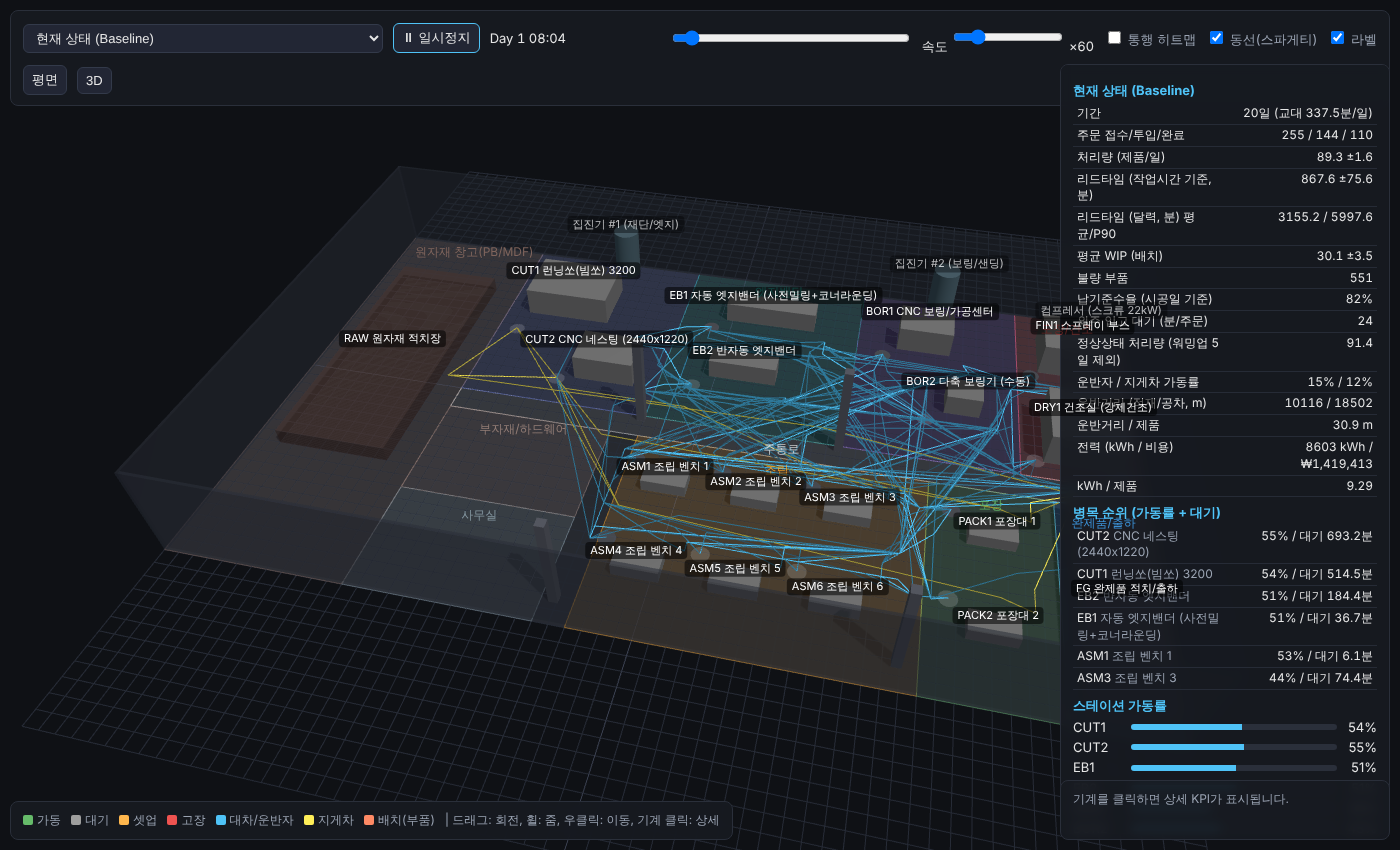
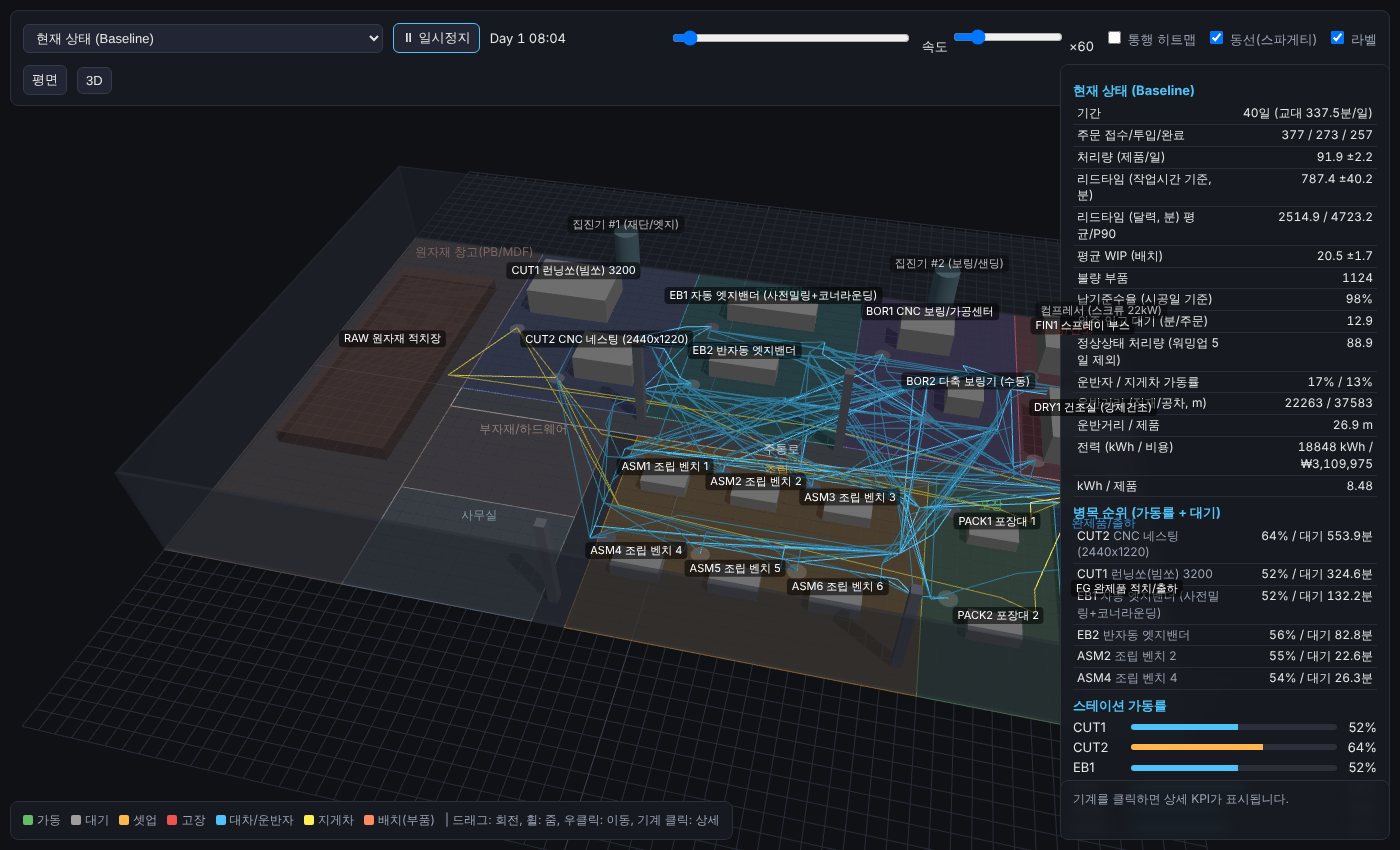
40일·13주문/일 민감도 반영(§10.2 두 체제 행, 08 지도 순위 열), 뷰어 스크린샷(40일) 갱신, 시나리오·민감도 출력 갱신
Claude-Session: https://claude.ai/code/session_01C9gxnGPi1S4WKTrmxT1DyB

diff --git a/factory-twin/docs/08_시트_파라미터_KPI_지도.md b/factory-twin/docs/08_시트_파라미터_KPI_지도.md
@@ -1,17 +1,17 @@
 # 08. 시트 → 파라미터 → KPI 지도 (빈칸이 결론을 어떻게 흔드는가)
 
-목적: 현장에서 어떤 시트를 비우고 오면 모델의 어느 파라미터가 **기본값(추정)** 으로 남고, 그것이 어느 결론(§1.2 KPI)을 흔드는지 한 표로 본다. 변환기 `tools/templates_to_json.py` 의 실제 동작과 샘플 민감도(`sim/out/sensitivity.md`, ±20%, 40일)·보정 라운드트립(03 §10.3)에 근거한다. 등급은 `tools/data_quality.py` 의 출처(measured/record/interview/estimated).
+목적: 현장에서 어떤 시트를 비우고 오면 모델의 어느 파라미터가 **기본값(추정)** 으로 남고, 그것이 어느 결론(§1.2 KPI)을 흔드는지 한 표로 본다. 변환기 `tools/templates_to_json.py` 의 실제 동작과 샘플 민감도(`sim/out/sensitivity.md`, ±20%, 40일, 13주문/일 중부하; 과부하 17주문/일 시험 실행은 03 §10.2)·보정 라운드트립(03 §10.3)에 근거한다. 등급은 `tools/data_quality.py` 의 출처(measured/record/interview/estimated).
 
 | 시트 | 만드는 파라미터(`factory.json`) | 비우면 변환기가 하는 일 | 흔들리는 결론 | 샘플 민감도 | 당일 최소 | 보정·검증 지표(이 파라미터가 직접 움직이는 KPI) |
 |---|---|---|---|---|---|---|
 | 0 공장기본 | `meta.shift`(시작·종료·휴게·주 근무일수), 잔업 메모 | 08:00~17:00, 주 5일 가정 | 처리량/일·납기준수율의 **분모**(근무 분) | — (구조) | 전부 | `shift_min_per_day`, 달력(주말 출하 유무) |
-| 1 구역 | `zones`(통로·적치·공정 구역) | 구역 없음 → A* 운반 경로가 직선 | 운반 거리·동선 시나리오(S3) | 운반 속도 4위(리드타임 11.5%p) | 평면도 + 레이저 제어치수 | `transport.distance_per_product_m` |
-| 2 기계대장 | `stations[]` 위치·크기·대수·v_f·G·통과 횟수·가용률(소정지·예열)·MTBF/MTTR·버퍼·이동 등급 | kW 5 가정, MTBF 0(고장 없음), 버퍼 무한, 가용률 1.0 | 병목 순위, 가동률, **비수기엔 MTTR 이 2순위** | MTTR(EB2) 6위, 버퍼(CUT2) 9위 | 명판·대수·버퍼 칸 수·"소정지 몇 번/시간" | `stations.<ID>.utilization`, 고장 이벤트 수 |
+| 1 구역 | `zones`(통로·적치·공정 구역) | 구역 없음 → A* 운반 경로가 직선 | 운반 거리·동선 시나리오(S3) | 중부하에선 하위, 과부하(17/일)에선 운반 속도 4위 | 평면도 + 레이저 제어치수 | `transport.distance_per_product_m` |
+| 2 기계대장 | `stations[]` 위치·크기·대수·v_f·G·통과 횟수·가용률(소정지·예열)·MTBF/MTTR·버퍼·이동 등급 | kW 5 가정, MTBF 0(고장 없음), 버퍼 무한, 가용률 1.0 | 병목 순위, 가동률, **비수기엔 MTTR 이 2순위** | **EB1 MTTR 4위**, CUT1·BOR2 MTTR 8·9위, CUT1 버퍼 10위 | 명판·대수·버퍼 칸 수·"소정지 몇 번/시간" | `stations.<ID>.utilization`, 고장 이벤트 수 |
 | 3 부대설비 | `ancillary[]`(집진·컴프레서 kW·운전 모드·부하율) | 없음 → 전력 kWh 20~40% 과소 | 전력·요금·VFD 시나리오 | — | 명판 + "아침 ON~퇴근 OFF" | `energy.total_kwh` (15분 적분) |
-| 4 사이클타임 | `stations[].cycle`(base·per_unit 회귀·cv·n) — 엣지는 Σ(L+G)/v_f+γ0+γ1·N, 보링은 홀 수 | **1분/부품 가정**(가장 흔한 오류 원인) | 병목 순위·가동률·리드타임 전부 | 런닝쏘 2위(17.3%p), 보링 3위, 조립 5위 | 병목 후보 ≥10회(평정·첫 사이클 표시) | `stations.<ID>.utilization` — 시공일 역산 체제에선 처리량이 아니라 **가동률**로 보정(§10.3) |
-| 5 셋업 | `stations[].setup_min`(쌍 평균), 빈도 | 시트 2 셋업 열 또는 0 | 성수기 체제 2순위, SMED(S4) | BOR2 13위, CUT2 16위 | 발생 시 1회 전체 관찰 | `setups_per_day` |
-| 6 작업자 | `transport.handlers`(운반 역할 수), `workers[]`(v1) | 운반 2명 가정 | 운반 대기, 배치 절반(S2)의 실현 가능성 | 운반 속도 4위·적재하역 12위 | 역할표 | `transport.handler_utilization` |
-| 7 제품·BOM | `products[]` 부품 수·치수·엣지 변·홀·색상·두께, `orders.batch_size`, `mix` | 제품 없음 → 시뮬 불가 | **배치 크기 규칙 1위**(리드타임 52.5%p) | 1위 | 4~8종 BOM + 재단표 1장 | `avg_wip_batches`, `lead_time_work_min_avg` |
+| 4 사이클타임 | `stations[].cycle`(base·per_unit 회귀·cv·n) — 엣지는 Σ(L+G)/v_f+γ0+γ1·N, 보링은 홀 수 | **1분/부품 가정**(가장 흔한 오류 원인) | 병목 순위·가동률·리드타임 전부 | 런닝쏘 2위(리드타임 17%p), 재단 CNC 3위, 조립 벤치 5위, 보링 7위 | 병목 후보 ≥10회(평정·첫 사이클 표시) | `stations.<ID>.utilization` — 시공일 역산 체제에선 처리량이 아니라 **가동률**로 보정(§10.3) |
+| 5 셋업 | `stations[].setup_min`(쌍 평균), 빈도 | 시트 2 셋업 열 또는 0 | 성수기 체제 2순위, SMED(S4) | ASM6 셋업 6위(중부하), BOR2·CUT2 셋업 13~16위(과부하) | 발생 시 1회 전체 관찰 | `setups_per_day` |
+| 6 작업자 | `transport.handlers`(운반 역할 수), `workers[]`(v1) | 운반 2명 가정 | 운반 대기, 배치 절반(S2)의 실현 가능성 | 중부하 하위, 과부하 운반 속도 4위·적재하역 12위 | 역할표 | `transport.handler_utilization` |
+| 7 제품·BOM | `products[]` 부품 수·치수·엣지 변·홀·색상·두께, `orders.batch_size`, `mix` | 제품 없음 → 시뮬 불가 | **배치 크기 규칙 1위**(처리량 34%p·리드타임 50%p) | 1위(두 체제 모두) | 4~8종 BOM + 재단표 1장 | `avg_wip_batches`, `lead_time_work_min_avg` |
 | 8 주문이력 | `orders.orders_per_day`, `install_lead_days`(min/mode/max), `history_list`(`--history` 로 재생) | 8건/일·D-2 가정 → 체제 자체가 틀림 | 납기준수율·WIP·"성수기/비수기" 구분 | 배치 크기와 결합 | 3개월 시공캘린더·세금계산서 | `on_time_ratio`, `order_lead_days_avg` |
 | 10 동선 | (직접 파라미터 없음) 카메라 trips·스파게티 검증 | — | 레이아웃 시나리오의 **검증** | — | 배치 1~2건 추적 | `transport.loaded/empty_distance_m` |
 | 11 전력측정 | `stations[].power`(정지/공회전/가공 kW) | 명판×0.3/0.6 가정 | kWh/제품·TOU 요금 | — | 상위 5대 클램프(D0 가능) | `energy.total_kwh`, 15분 피크 |
@@ -26,7 +26,7 @@
 | 20 외주경로 | `outsourced[]`(발주 시점·리드타임·합류·지연) | 외주 없음 → 조립 대기 과소 | 납기준수율·조립 대기 | — | 도어·상판 2행 | `outsourced_wait_avg_min` |
 | 21 from-to | 검증(운반 횟수) | — | 운반 모델 검증 | — | 주요 5쌍 | `move` 이벤트 집계 |
 | 22 REL | 레이아웃 제안 입력(SLP) | — | 레이아웃 제안 품질 | — | 2차 방문 | — |
-| 23 운반·출하 | `transport.carts`·속도·적재하역·`shipping`(수집만) | 대차 무제한·1.2 m/s·1.5분 | 운반 제약(S8)·배치 절반(S2) | 속도 4위·적재하역 12위 | 대차 수·적재량 | `cart_wait_avg_min`, `transport.handler_utilization` |
+| 23 운반·출하 | `transport.carts`·속도·적재하역·`shipping`(수집만) | 대차 무제한·1.2 m/s·1.5분 | 운반 제약(S8)·배치 절반(S2) | 과부하 체제에서만(S8: 17/일 −14%, 13/일 ±1%) | 대차 수·적재량 | `cart_wait_avg_min`, `transport.handler_utilization` |
 | 24 카메라보정 | 동선 좌표 변환(픽셀→바닥) | 동선 거리 오차 10~30% | 동선·레이아웃 검증 | — | 제어점 6개/카메라 | — |
 
 읽는 법:

diff --git a/factory-twin/sim/out/sensitivity.md b/factory-twin/sim/out/sensitivity.md
@@ -1,49 +1,49 @@
 # 민감도 스크리닝 (±20%, seed 2회)
 
-베이스라인: 처리량 90.0/일, 리드타임 933분, 병목 CUT2
+베이스라인: 처리량 92.2/일, 리드타임 753분, 병목 CUT2
 
 | 순위 | 파라미터 | 처리량 변동폭(%p) | 리드타임 변동폭(%p) | 병목(−20%) | 병목(+20%) | 재측정 우선순위 |
 |---|---|---|---|---|---|---|
-| 1 | orders.batch_size(배치크기) | 7.6 | 52.5 | CUT2 | CUT2 | 높음 |
-| 2 | CUT1.cycle(가공시간) | 11.9 | 17.3 | CUT2 | CUT2 | 높음 |
-| 3 | BOR1.cycle(가공시간) | 5.7 | 13.8 | CUT2 | CUT2 | 높음 |
-| 4 | transport.handler_speed(운반속도) | 6.1 | 11.5 | CUT2 | CUT2 | 높음 |
-| 5 | ASM2.cycle(가공시간) | 1.8 | 13.3 | CUT2 | CUT2 | 높음 |
-| 6 | EB2.mttr(수리시간) | 0.8 | 6.8 | CUT2 | CUT2 | 높음 |
-| 7 | CUT1.mttr(수리시간) | 3.0 | 4.1 | CUT2 | CUT2 | 높음 |
-| 8 | DRY1.batch_time(배치시간) | 0.6 | 6.4 | CUT2 | CUT2 | 높음 |
-| 9 | CUT2.buffer(버퍼용량) | 0.4 | 6.0 | CUT2 | CUT2 | 높음 |
-| 10 | PACK2.cycle(가공시간) | 1.1 | 5.3 | CUT2 | CUT2 | 높음 |
-| 11 | CUT2.mttr(수리시간) | 4.3 | 2.1 | CUT2 | CUT2 | 중간 |
-| 12 | transport.load_unload(적재하역) | 0.9 | 5.4 | CUT2 | CUT2 | 중간 |
-| 13 | BOR2.setup(셋업) | 0.4 | 5.5 | CUT2 | CUT2 | 중간 |
-| 14 | EB2.cycle(가공시간) | 2.9 | 1.9 | CUT2 | CUT2 | 중간 |
-| 15 | ASM5.setup(셋업) | 2.9 | 1.3 | CUT2 | CUT2 | 중간 |
-| 16 | CUT2.setup(셋업) | 0.4 | 3.7 | CUT2 | CUT2 | 중간 |
-| 17 | BOR2.cycle(가공시간) | 0.1 | 3.9 | CUT2 | CUT2 | 중간 |
-| 18 | BOR1.setup(셋업) | 1.2 | 2.7 | CUT2 | CUT2 | 중간 |
-| 19 | EB1.mttr(수리시간) | 0.4 | 3.5 | CUT2 | CUT2 | 중간 |
-| 20 | ASM6.cycle(가공시간) | 0.9 | 2.8 | CUT2 | CUT2 | 중간 |
-| 21 | CUT2.cycle(가공시간) | 3.0 | 0.7 | CUT1 | CUT2 | 낮음(추정 유지 가능) |
-| 22 | EB2.setup(셋업) | 3.6 | 0.1 | CUT2 | CUT2 | 낮음(추정 유지 가능) |
-| 23 | ASM4.cycle(가공시간) | 3.1 | 0.3 | CUT2 | CUT2 | 낮음(추정 유지 가능) |
-| 24 | ASM1.cycle(가공시간) | 2.1 | 1.3 | CUT2 | CUT2 | 낮음(추정 유지 가능) |
-| 25 | EB1.setup(셋업) | 0.3 | 2.7 | CUT2 | CUT2 | 낮음(추정 유지 가능) |
-| 26 | CUT1.buffer(버퍼용량) | 0.2 | 2.7 | CUT2 | CUT2 | 낮음(추정 유지 가능) |
-| 27 | FIN1.setup(셋업) | 1.0 | 1.7 | CUT2 | CUT2 | 낮음(추정 유지 가능) |
-| 28 | ASM6.setup(셋업) | 0.8 | 1.7 | CUT2 | CUT2 | 낮음(추정 유지 가능) |
-| 29 | EB1.cycle(가공시간) | 2.2 | 0.3 | CUT2 | CUT2 | 낮음(추정 유지 가능) |
-| 30 | BOR2.mttr(수리시간) | 2.0 | 0.4 | CUT2 | CUT2 | 낮음(추정 유지 가능) |
-| 31 | ASM4.setup(셋업) | 0.8 | 1.4 | CUT2 | CUT2 | 낮음(추정 유지 가능) |
-| 32 | BOR1.mttr(수리시간) | 1.3 | 0.5 | CUT2 | CUT2 | 낮음(추정 유지 가능) |
-| 33 | ASM1.setup(셋업) | 1.0 | 0.7 | CUT2 | CUT2 | 낮음(추정 유지 가능) |
-| 34 | ASM3.setup(셋업) | 0.2 | 1.5 | CUT2 | CUT2 | 낮음(추정 유지 가능) |
-| 35 | FIN1.cycle(가공시간) | 1.3 | 0.3 | CUT2 | CUT2 | 낮음(추정 유지 가능) |
-| 36 | ASM2.setup(셋업) | 0.0 | 1.5 | CUT2 | CUT2 | 낮음(추정 유지 가능) |
-| 37 | ASM5.cycle(가공시간) | 0.6 | 0.4 | CUT2 | CUT2 | 낮음(추정 유지 가능) |
-| 38 | CUT1.setup(셋업) | 0.4 | 0.4 | CUT2 | CUT2 | 낮음(추정 유지 가능) |
-| 39 | ASM3.cycle(가공시간) | 0.6 | 0.0 | CUT2 | CUT2 | 낮음(추정 유지 가능) |
-| 40 | PACK1.cycle(가공시간) | 0.2 | 0.2 | CUT2 | CUT2 | 낮음(추정 유지 가능) |
+| 1 | orders.batch_size(배치크기) | 33.9 | 50.1 | CUT2 | CUT2 | 높음 |
+| 2 | CUT1.cycle(가공시간) | 1.8 | 17.1 | CUT2 | CUT2 | 높음 |
+| 3 | CUT2.cycle(가공시간) | 0.8 | 12.6 | CUT2 | CUT2 | 높음 |
+| 4 | EB1.mttr(수리시간) | 0.4 | 8.1 | CUT2 | CUT2 | 높음 |
+| 5 | ASM4.cycle(가공시간) | 1.4 | 5.0 | CUT2 | CUT2 | 높음 |
+| 6 | ASM6.setup(셋업) | 0.0 | 6.3 | CUT2 | CUT2 | 높음 |
+| 7 | BOR1.cycle(가공시간) | 0.2 | 5.6 | CUT2 | CUT2 | 높음 |
+| 8 | CUT1.mttr(수리시간) | 0.1 | 4.3 | CUT2 | CUT2 | 높음 |
+| 9 | BOR2.mttr(수리시간) | 0.3 | 3.9 | CUT2 | CUT2 | 높음 |
+| 10 | CUT1.buffer(버퍼용량) | 0.0 | 4.0 | CUT2 | CUT2 | 높음 |
+| 11 | DRY1.batch_time(배치시간) | 0.3 | 3.6 | CUT2 | CUT2 | 중간 |
+| 12 | EB2.cycle(가공시간) | 0.2 | 3.4 | CUT2 | CUT2 | 중간 |
+| 13 | ASM2.cycle(가공시간) | 0.0 | 3.4 | CUT2 | CUT2 | 중간 |
+| 14 | EB1.cycle(가공시간) | 0.6 | 2.8 | CUT2 | CUT2 | 중간 |
+| 15 | CUT2.mttr(수리시간) | 0.3 | 3.0 | CUT2 | CUT2 | 중간 |
+| 16 | BOR2.cycle(가공시간) | 0.4 | 2.9 | CUT2 | CUT2 | 중간 |
+| 17 | BOR1.setup(셋업) | 0.1 | 3.1 | CUT2 | CUT2 | 중간 |
+| 18 | EB1.setup(셋업) | 0.7 | 2.5 | CUT2 | CUT2 | 중간 |
+| 19 | CUT1.setup(셋업) | 0.3 | 2.7 | CUT2 | CUT2 | 중간 |
+| 20 | BOR2.setup(셋업) | 1.4 | 1.6 | CUT2 | CUT2 | 중간 |
+| 21 | ASM1.setup(셋업) | 0.8 | 2.1 | CUT2 | CUT2 | 낮음(추정 유지 가능) |
+| 22 | PACK2.cycle(가공시간) | 0.8 | 2.0 | CUT2 | CUT2 | 낮음(추정 유지 가능) |
+| 23 | ASM6.cycle(가공시간) | 0.4 | 2.3 | CUT2 | CUT2 | 낮음(추정 유지 가능) |
+| 24 | ASM4.setup(셋업) | 0.3 | 2.3 | CUT2 | CUT2 | 낮음(추정 유지 가능) |
+| 25 | ASM2.setup(셋업) | 0.4 | 2.2 | CUT2 | CUT2 | 낮음(추정 유지 가능) |
+| 26 | transport.load_unload(적재하역) | 0.9 | 1.5 | CUT2 | CUT2 | 낮음(추정 유지 가능) |
+| 27 | CUT2.setup(셋업) | 0.7 | 1.7 | CUT2 | CUT2 | 낮음(추정 유지 가능) |
+| 28 | BOR1.mttr(수리시간) | 1.1 | 1.3 | CUT2 | CUT2 | 낮음(추정 유지 가능) |
+| 29 | FIN1.setup(셋업) | 0.7 | 1.6 | CUT2 | CUT2 | 낮음(추정 유지 가능) |
+| 30 | EB2.mttr(수리시간) | 0.1 | 2.2 | CUT2 | CUT2 | 낮음(추정 유지 가능) |
+| 31 | CUT2.buffer(버퍼용량) | 0.5 | 1.7 | CUT2 | CUT2 | 낮음(추정 유지 가능) |
+| 32 | ASM5.cycle(가공시간) | 0.7 | 1.4 | CUT2 | CUT2 | 낮음(추정 유지 가능) |
+| 33 | ASM3.setup(셋업) | 0.1 | 1.5 | CUT2 | CUT2 | 낮음(추정 유지 가능) |
+| 34 | transport.handler_speed(운반속도) | 0.2 | 1.3 | CUT2 | CUT2 | 낮음(추정 유지 가능) |
+| 35 | PACK1.cycle(가공시간) | 0.3 | 1.1 | CUT2 | CUT2 | 낮음(추정 유지 가능) |
+| 36 | ASM1.cycle(가공시간) | 0.5 | 0.8 | CUT2 | CUT2 | 낮음(추정 유지 가능) |
+| 37 | FIN1.cycle(가공시간) | 0.0 | 1.3 | CUT2 | CUT2 | 낮음(추정 유지 가능) |
+| 38 | ASM3.cycle(가공시간) | 0.9 | 0.3 | CUT2 | CUT2 | 낮음(추정 유지 가능) |
+| 39 | EB2.setup(셋업) | 0.2 | 0.7 | CUT2 | CUT2 | 낮음(추정 유지 가능) |
+| 40 | ASM5.setup(셋업) | 0.3 | 0.1 | CUT2 | CUT2 | 낮음(추정 유지 가능) |
 | 41 | PACK2.buffer(버퍼용량) | 0.0 | 0.0 | CUT2 | CUT2 | 낮음(추정 유지 가능) |
 | 42 | PACK1.buffer(버퍼용량) | 0.0 | 0.0 | CUT2 | CUT2 | 낮음(추정 유지 가능) |
 | 43 | FIN1.buffer(버퍼용량) | 0.0 | 0.0 | CUT2 | CUT2 | 낮음(추정 유지 가능) |

diff --git a/factory-twin/docs/03_공장복제_명세서.md b/factory-twin/docs/03_공장복제_명세서.md
@@ -325,9 +325,10 @@
 |---|---|---|---|
 | 성수기형(즉시 투입, 설비능력 초과, 가동률 85%) | **배치 크기 규칙**(리드타임 변동폭 52%p) | 병목 후보 실효 사이클(EB2·CUT1/2·조립), 셋업 | 규칙 > 사이클 > 셋업. 병목 정체가 ±20% 안에서 뒤바뀜 |
 | 비수기형(시공일 역산 D-2 투입, 외주 병렬, 가동률 49%) | **배치 크기 규칙**(46%p) | **엣지밴더 수리시간(MTTR)**, 다축보링 셋업, 재단 CNC 사이클, 적재·하역 시간 | 여유가 있는 체제에선 **고장·수리 시간**이 납기를 흔든다 → 설비이력(월 고장 횟수·수리 시간)이 1급 데이터가 된다 |
-| 평일 가동·중부하(17주문/일, 가동률 55%, v2.1 모델) | **배치 크기 규칙**(52%p) | 런닝쏘 사이클(17%p), CNC 보링 사이클, **운반 속도**(12%p), 조립 사이클, 엣지밴더 MTTR | 운반(대차 인력·속도)이 상위권에 들어온다 → 시트 23(운반 대장)과 스파게티 실측이 필요 |
+| 평일 가동·중부하(13주문/일, 40일 지평·정상상태 25일, 재단 CNC 가동률 65%, 납기 94%) | **배치 크기 규칙**(처리량 34%p·리드타임 50%p) | 런닝쏘 사이클(리드타임 17%p), 재단 CNC 사이클(13%p), **엣지밴더 MTTR**(8%p), 조립 벤치 사이클·셋업, 보링 사이클, 런닝쏘·보링 MTTR, 런닝쏘 앞 버퍼 | 처리량은 어떤 파라미터로도 ±2% 안(수요 고정) → 민감도는 **리드타임·납기** 축으로 읽어야 한다. 재단 2대(런닝쏘·CNC)의 사이클과 **수리시간**이 리드타임을 좌우 → 시트 2 MTBF/MTTR 과 설비이력이 1급 데이터 |
+| 과부하(17주문/일 시험 실행, 가동률 78%, 납기 64%) | 배치 크기 규칙 | 런닝쏘·보링 사이클, **운반 속도**(12%p), 적재·하역, 대차 수(S8 −14%) | 운반(대차 수·인력·속도)이 상위권에 들어온다 → 시트 23(운반 대장)과 카메라 trips 실측이 필요. 같은 공장도 수요가 능력을 넘으면 결정적 데이터가 바뀐다 |
 
-공통 결론: ① 배치 규칙(⑤층)은 어느 체제에서도 1위 → 반장 인터뷰·재단표가 가장 중요한 증거. ② 병목 후보 2~3대의 실효 사이클은 ±10% 이내로. ③ 비수기엔 MTTR·소정지, 성수기엔 셋업 빈도가 2순위. ④ 두 체제(성수기 월·비수기 월)를 모두 검증해야 한다. 주의: 샘플 스크리닝은 seed 2회라 하위 순위는 잡음이 섞여 있다. 실제 공장에선 seed ≥5, 필요 시 Morris r=10으로 재실행.
+공통 결론: ① 배치 규칙(⑤층)은 어느 체제에서도 1위 → 반장 인터뷰·재단표가 가장 중요한 증거. ② 병목 후보 2~3대의 실효 사이클은 ±10% 이내로. ③ 비수기엔 MTTR·소정지, 성수기엔 셋업 빈도가 2순위. ④ 두 체제(성수기 월·비수기 월)를 모두 검증해야 한다. 주의: 샘플 스크리닝은 seed 2회라 하위 순위는 잡음이 섞여 있다(특히 처리량 변동폭 <2%p 는 모두 잡음 수준). 실제 공장에선 seed ≥5, 필요 시 Morris r=10으로 재실행.
 절차: 1차 모델 → 상위 10개 → 2주 로깅·2차 방문 재측정 → `tools/data_quality.py`에서 "상위 10개 중 추정"이 0이 될 때까지.
 
 ### 10.3 보정 라운드트립 — 무엇이 식별되고 무엇이 안 되는가
